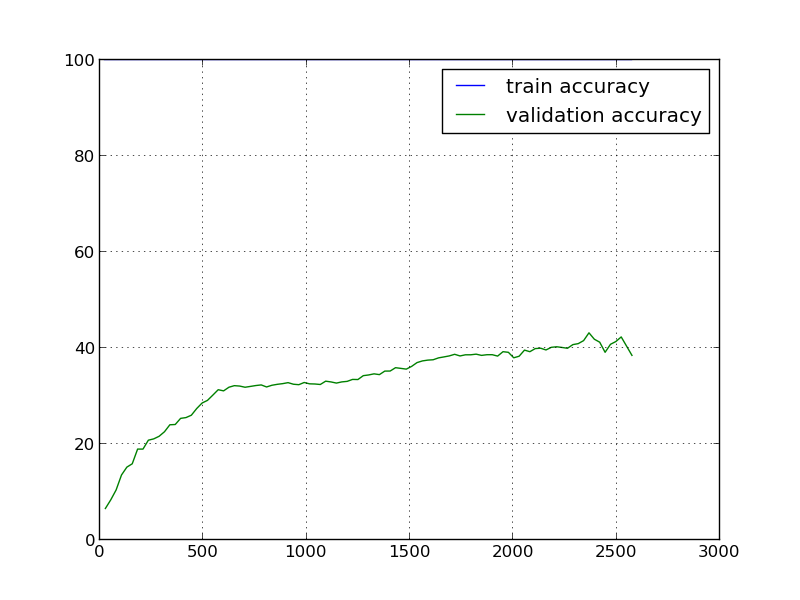
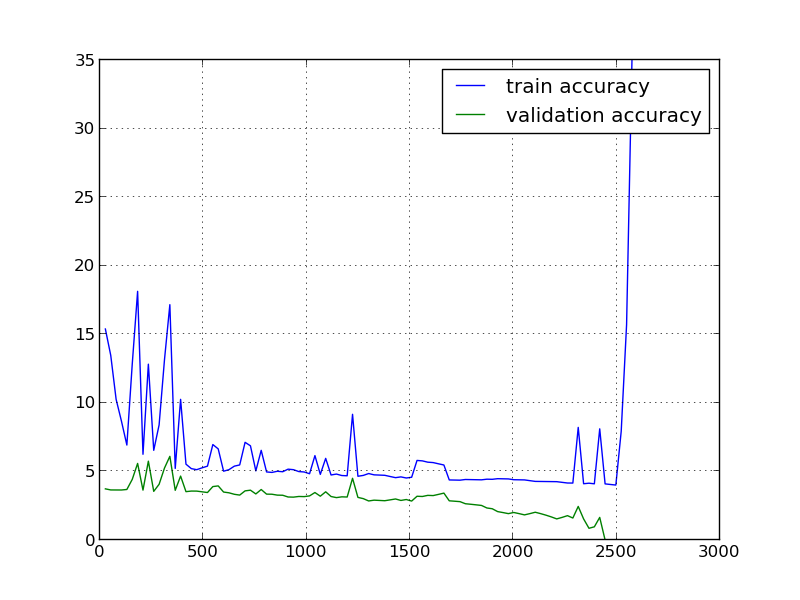
Calculated the learning curve with C = 0.01

diff --git a/train_model.py b/train_model.py
@@ -1,6 +1,8 @@
 #!/usr/bin/env python
 
 import svmutil
+import matplotlib
+matplotlib.use('Agg')
 import matplotlib.pyplot as plt
 
 class GammaCPair(object):
@@ -34,7 +36,7 @@ def svm_learning_curve(x, y):
 
 	for i in range(steep, m, steep):
 		prob  = svmutil.svm_problem(y[:i], x[:i])
-		param = svmutil.svm_parameter('-t 2 -q -c 100')
+		param = svmutil.svm_parameter('-t 2 -q -c 0.01')
 		m = svmutil.svm_train(prob, param)
 		
 		p_label_train, p_acc_train, p_val_train = svmutil.svm_predict(y[:i], x[:i], m)
